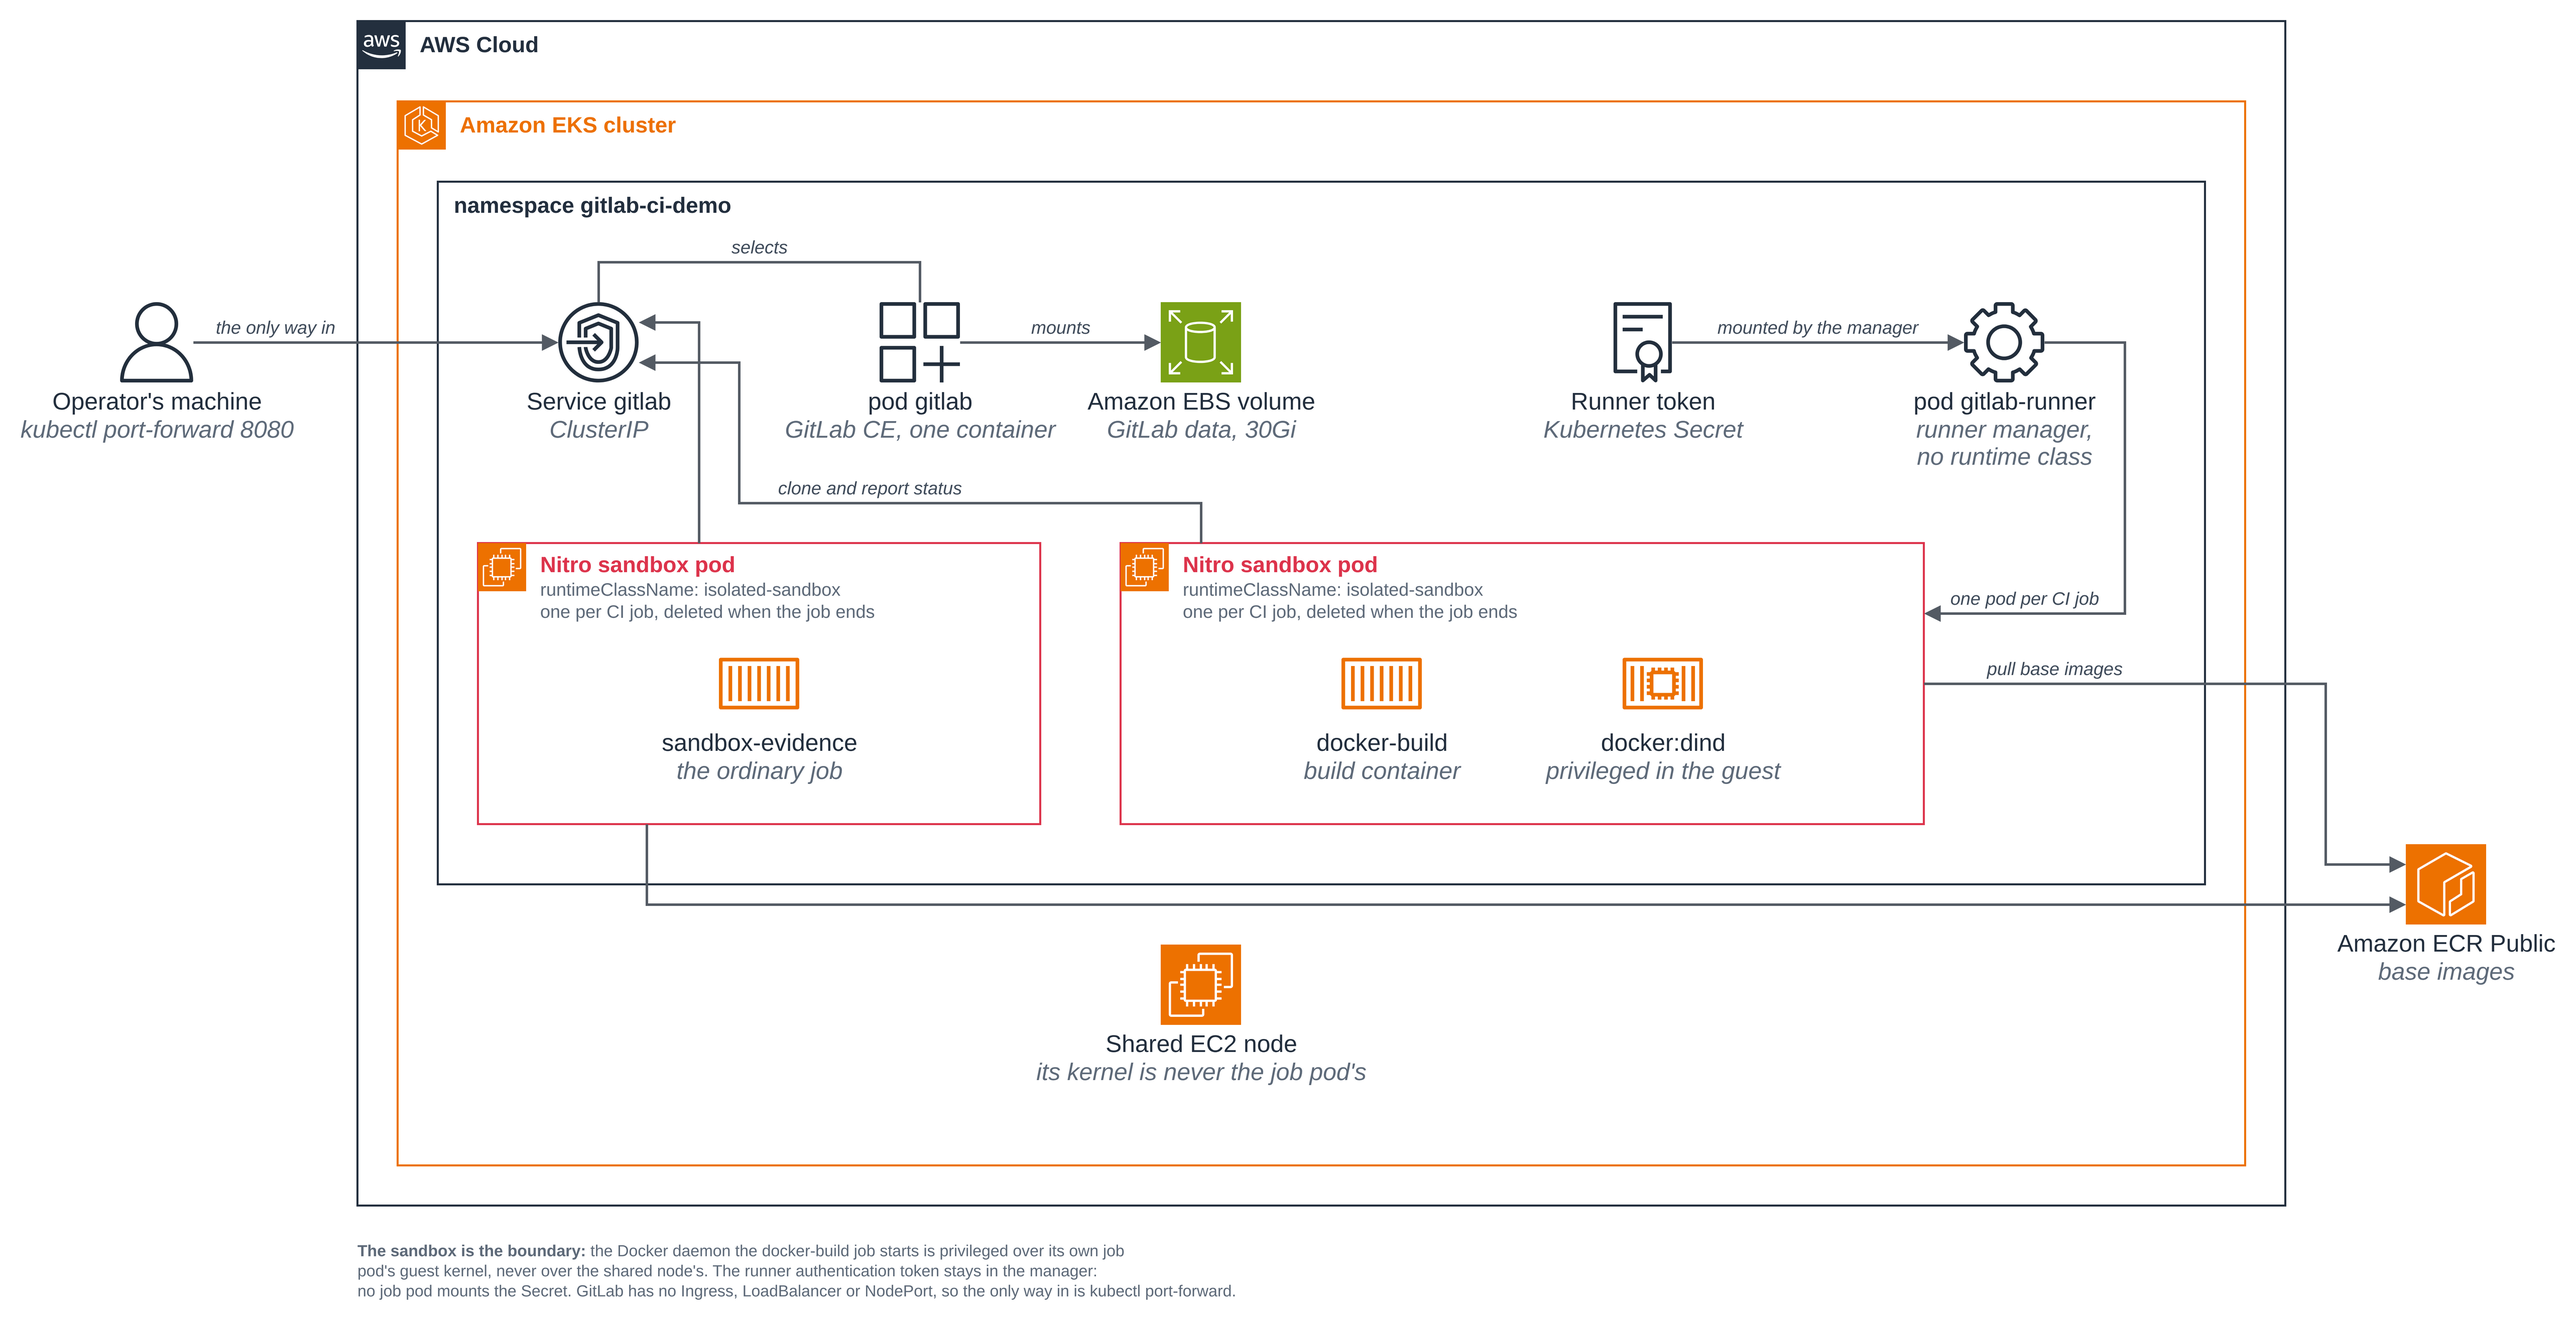
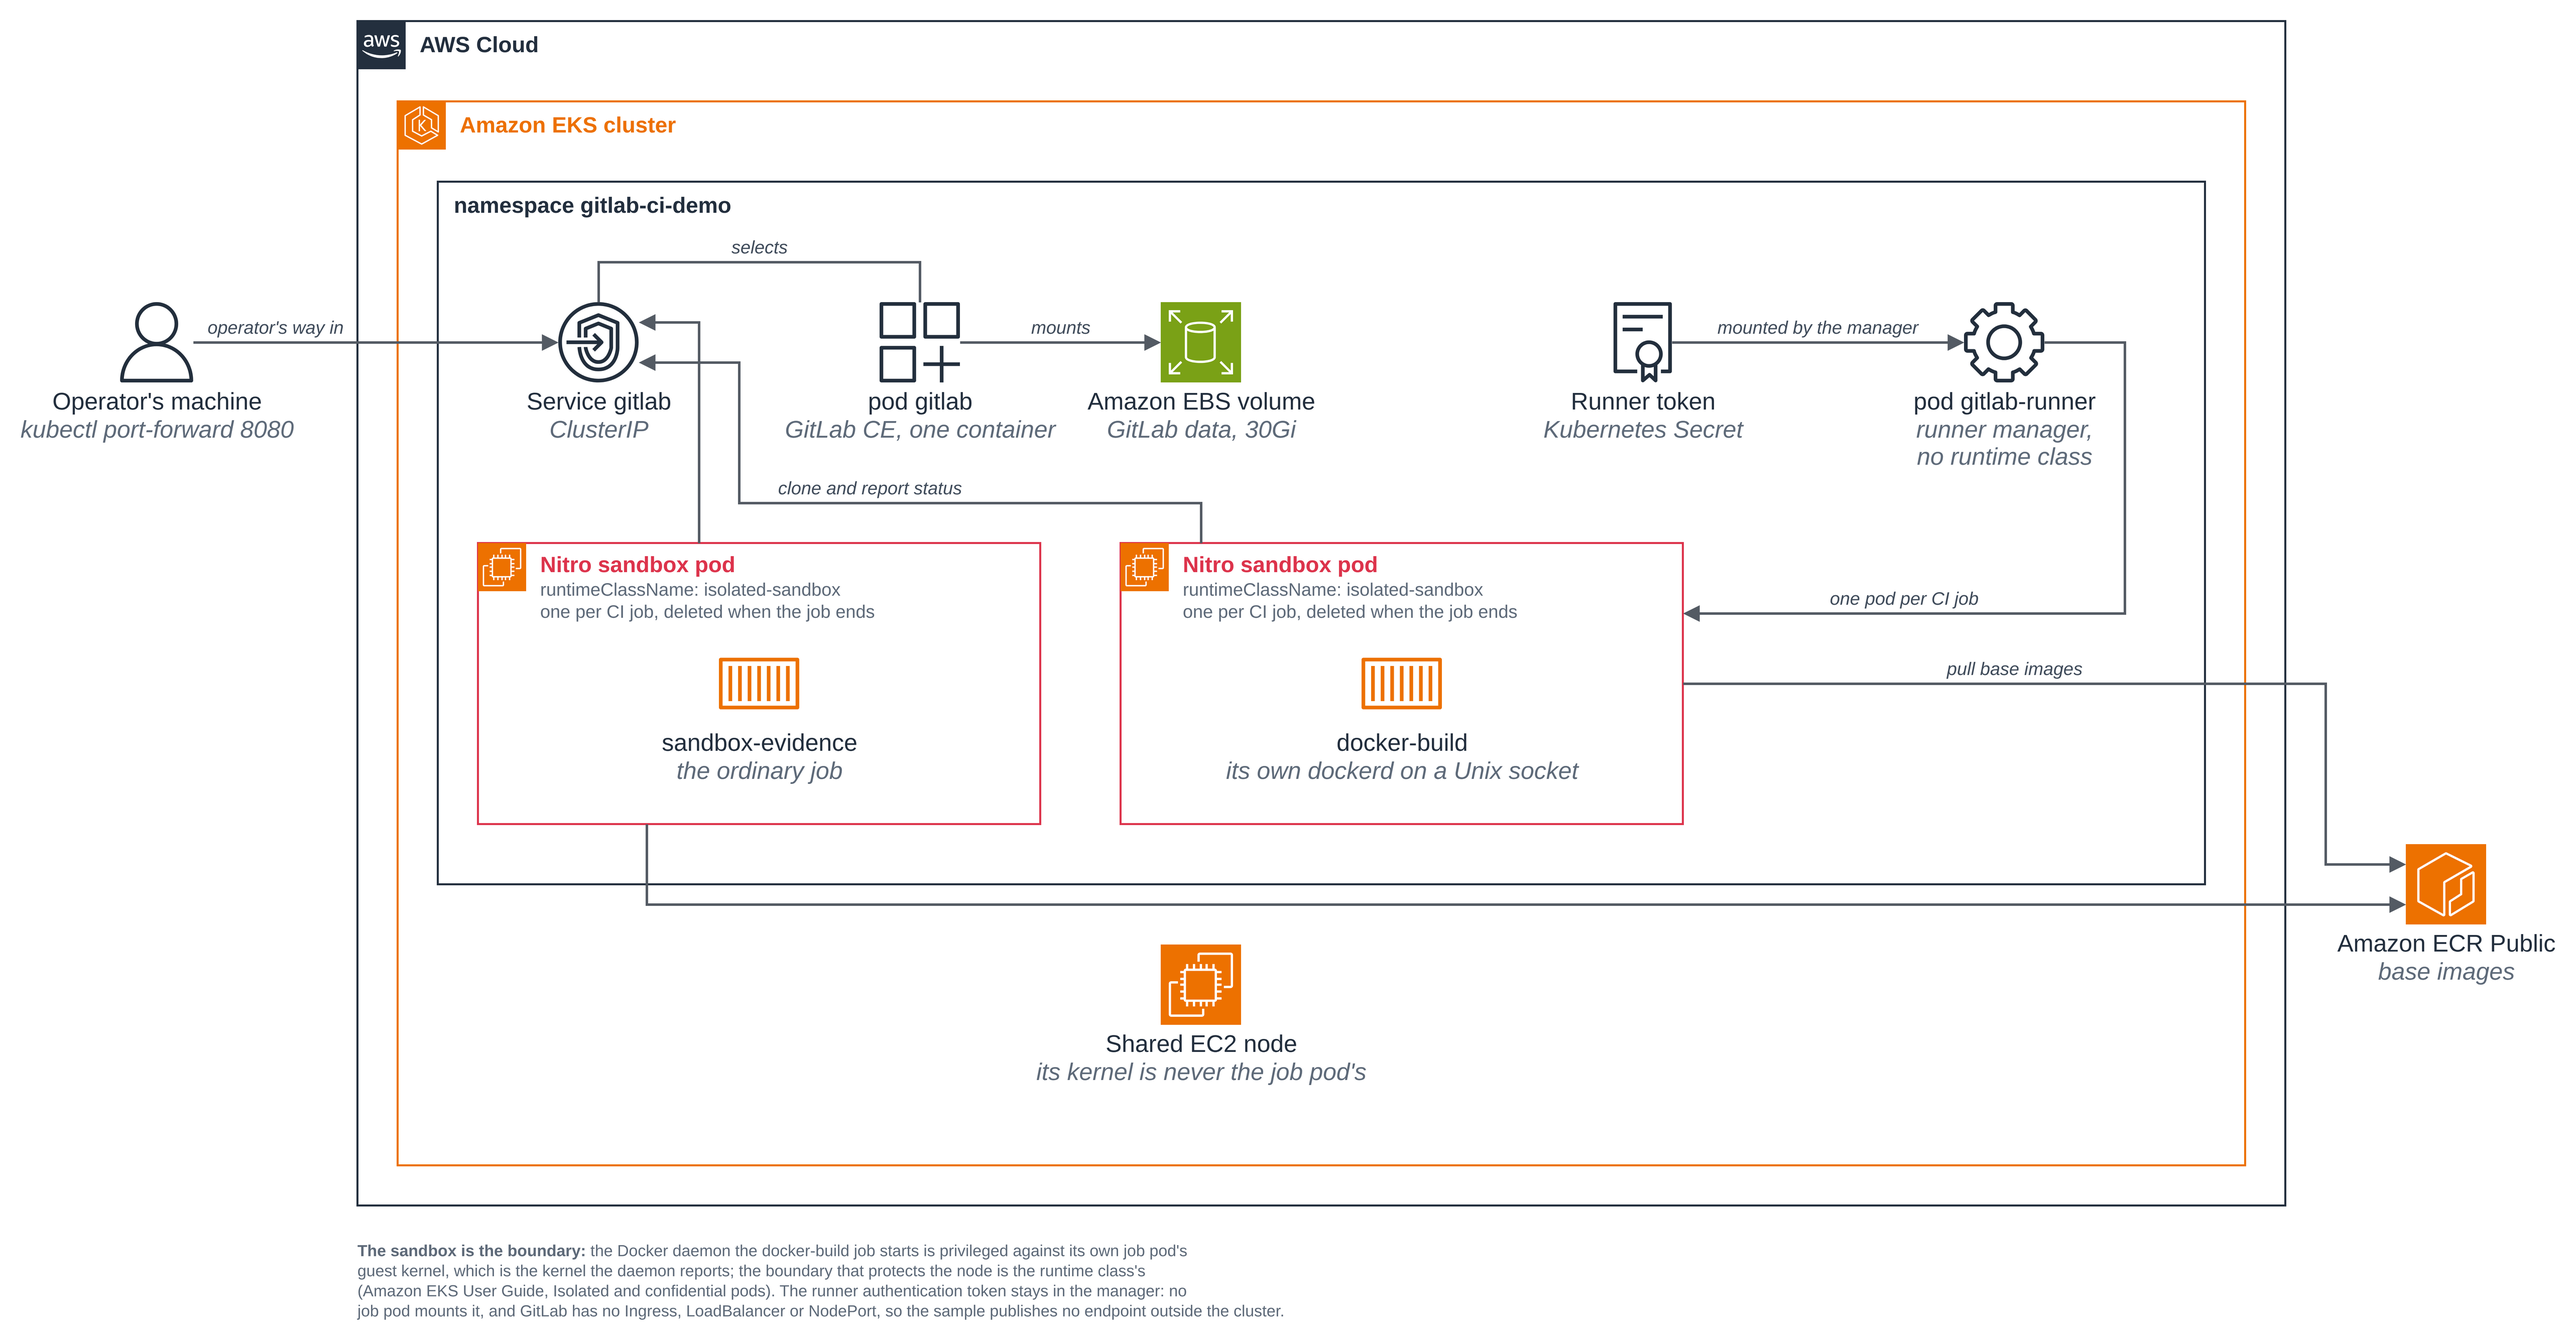
gitlab-ci: bring the figure and its alt text in line with the sample and the fixed claims
The figure still showed a docker:dind container beside the build container, which
the sample no longer has: the daemon runs in the build container on a Unix
socket. The second sandbox frame now holds one container, docker-build, labelled
"its own dockerd on a Unix socket", and neither frame singles out a container as
privileged, because privileged = true is a runner-level setting that applies to
both jobs.

Two claims in the figure were the same overclaims the second review found on the
page. "the only way in" is now "operator's way in", since in-cluster pods reach
the Service too; and the note's "never over the shared node's" now says the
daemon is privileged against its own job pod's guest kernel, which is the kernel
the daemon reports, while the boundary that protects the node is the runtime
class's, citing the Amazon EKS User Guide, Isolated and confidential pods.

The note names no command: the aws-diagrams skill keeps tooling words off a
figure, so "which is the kernel the daemon reports" stands in for the command
that reports it.

The page's alt text is replaced to match, and a Good to know bullet that still
counted a service container in a job pod's size is corrected.

diff --git a/examples/ci-cd/gitlab-ci/README.md b/examples/ci-cd/gitlab-ci/README.md
@@ -98,7 +98,7 @@ and this page claims no limit from one.
 in `gitlab-ci-demo`, the manager creates one sandbox pod per CI job, and the runner
 authentication token stays with the manager.*
 
-![Outside AWS sits the operator's machine, which reaches the cluster only with kubectl port-forward on 8080, and its arrow in is labelled the only way in. Inside the AWS Cloud, an Amazon EKS cluster holds the namespace gitlab-ci-demo. Along the top of that namespace are the long-lived ordinary pods: a ClusterIP Service gitlab, which the operator's arrow reaches and which selects pod gitlab, GitLab CE in one container, and pod gitlab mounts an Amazon EBS volume holding 30Gi of GitLab data. To their right, a Kubernetes Secret holding the runner token has an arrow labelled mounted by the manager running to pod gitlab-runner, the runner manager, which has no runtime class. An arrow from the runner manager down into the namespace is labelled one pod per CI job. Below sit two Nitro sandbox pods framed in red, each carrying runtimeClassName isolated-sandbox and the note one per CI job, deleted when the job ends. The first holds the sandbox-evidence container, the ordinary job. The second holds the docker-build build container beside a docker:dind container that is privileged in the guest. An arrow from each sandbox pod runs back to the Service gitlab, labelled clone and report status, because a job pod uses the in-cluster Service address, and an arrow from each runs out to Amazon ECR Public for base images, labelled pull base images. Below both sandbox pods, inside the cluster, is the shared EC2 node, whose kernel is never the job pod's. A note under the figure says that the sandbox is the boundary: the Docker daemon the docker-build job starts is privileged over its own job pod's guest kernel, never over the shared node's, the runner authentication token stays in the manager and no job pod mounts the Secret, and GitLab has no Ingress, LoadBalancer or NodePort, so the only way in is kubectl port-forward.](images/architecture.png)
+![Outside AWS sits the operator's machine, which reaches the cluster with kubectl port-forward on 8080, and its arrow in is labelled operator's way in. Inside the AWS Cloud, an Amazon EKS cluster holds the namespace gitlab-ci-demo. Along the top of that namespace are the long-lived ordinary pods: a ClusterIP Service gitlab, which the operator's arrow reaches and which selects pod gitlab, GitLab CE in one container, and pod gitlab mounts an Amazon EBS volume holding 30Gi of GitLab data. To their right, a Kubernetes Secret holding the runner token has an arrow labelled mounted by the manager running to pod gitlab-runner, the runner manager, which has no runtime class. An arrow from the runner manager down into the namespace is labelled one pod per CI job. Below sit two Nitro sandbox pods framed in red, each carrying runtimeClassName isolated-sandbox and the note one per CI job, deleted when the job ends. The first holds one container, sandbox-evidence, the ordinary job. The second holds one container, docker-build, which runs its own dockerd on a Unix socket. An arrow from each sandbox pod runs back to the Service gitlab, labelled clone and report status, because a job pod uses the in-cluster Service address, and an arrow from each runs out to Amazon ECR Public for base images, labelled pull base images. Below both sandbox pods, inside the cluster, is the shared EC2 node, whose kernel is never the job pod's. A note under the figure says that the sandbox is the boundary: the Docker daemon the docker-build job starts is privileged against its own job pod's guest kernel, which is the kernel the daemon reports, while the boundary that protects the node is the runtime class's, citing the Amazon EKS User Guide, Isolated and confidential pods. It adds that the runner authentication token stays in the manager and no job pod mounts it, and that GitLab has no Ingress, LoadBalancer or NodePort, so the sample publishes no endpoint outside the cluster.](images/architecture.png)
 
 The two sandbox pods are side by side in the figure because that is what the runner does with
 them, one per job. In this pipeline the two jobs are in two stages, so they run one after the
@@ -503,11 +503,11 @@ TODO: output from the fresh run
   runner's configuration overrides it, but a job that calls the GitLab API itself would need
   the in-cluster address instead. A reader who does not want the web UI can set `external_url`
   to the Service address and drop `clone_url`.
-- **A job pod's size is the sandbox's size.** The VM is sized from the pod's requests, so the
-  build job's sandbox is the sum of its build, helper and service containers' requests. In
-  production each sandbox reserves its full memory request up front, so plan node capacity by
-  reservation rather than by usage: expect fewer, larger pods per node than with ordinary
-  containers.
+- **A job pod's size is the sandbox's size.** The VM is sized from the pod's requests, so each
+  job pod's sandbox is the sum of its build and helper containers' requests, and a job that
+  declared a service container would add that too. In production each sandbox reserves its
+  full memory request up front, so plan node capacity by reservation rather than by usage:
+  expect fewer, larger pods per node than with ordinary containers.
 - **A new config.toml needs a new manager pod, and the Deployment carries that for you.**
   The manager copies the mounted config to a writable path at start-up, because
   `gitlab-runner` rewrites its own config file and a Secret mount is read only. So a pod that
